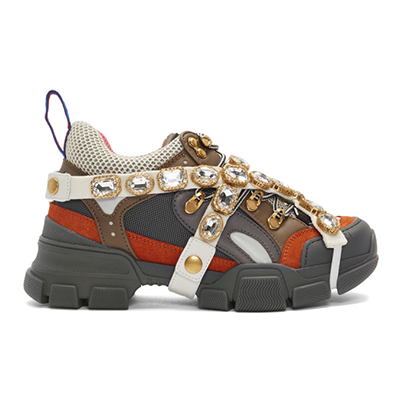
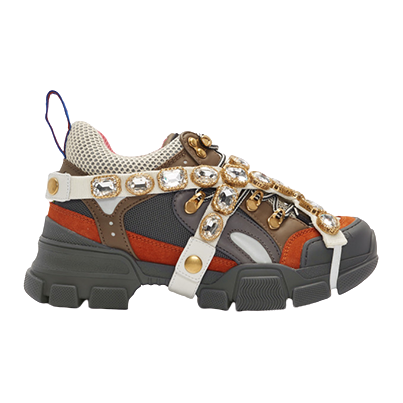
modified homePage img change

diff --git a/homePage.html b/homePage.html
@@ -409,7 +409,8 @@
                                         <i class="heartIco far fa-heart"></i>
                                     </div>
                                     <div class="cardImage">
-                                        <img src="./ASSETS/182451F128016_1.png" alt="shoeImg">
+                                        <img src="./ASSETS/182451F128016_1.png" alt="shoeImg"
+                                            style="height: 130%; transform: translateY(-10%);">
                                     </div>
                                 </div>
                                 <div class="itemName">
